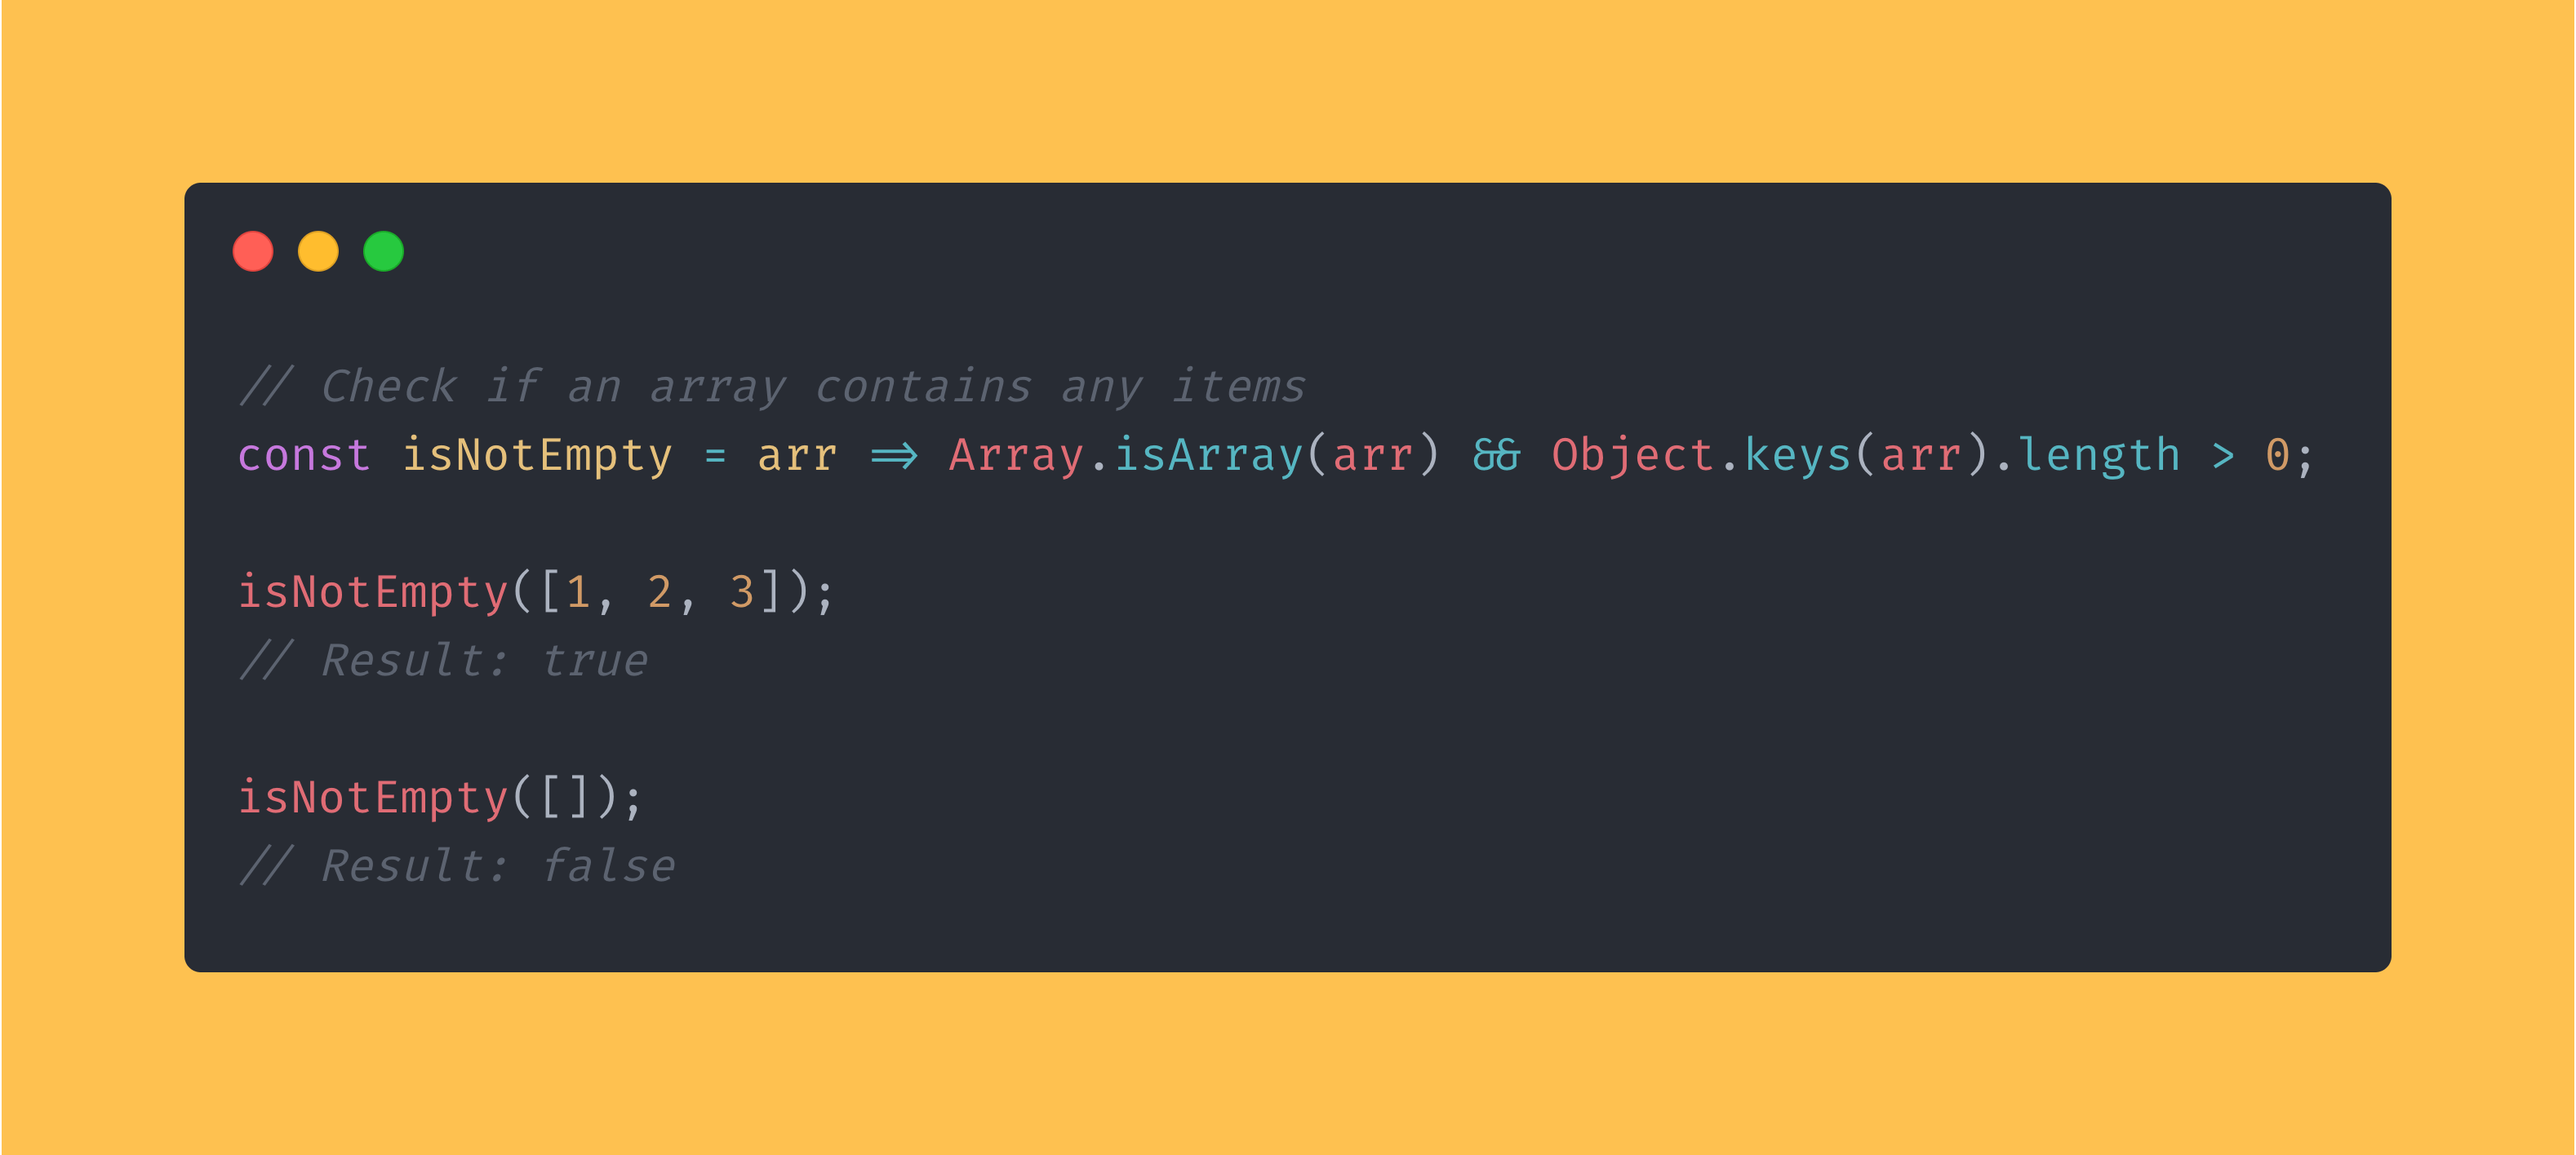
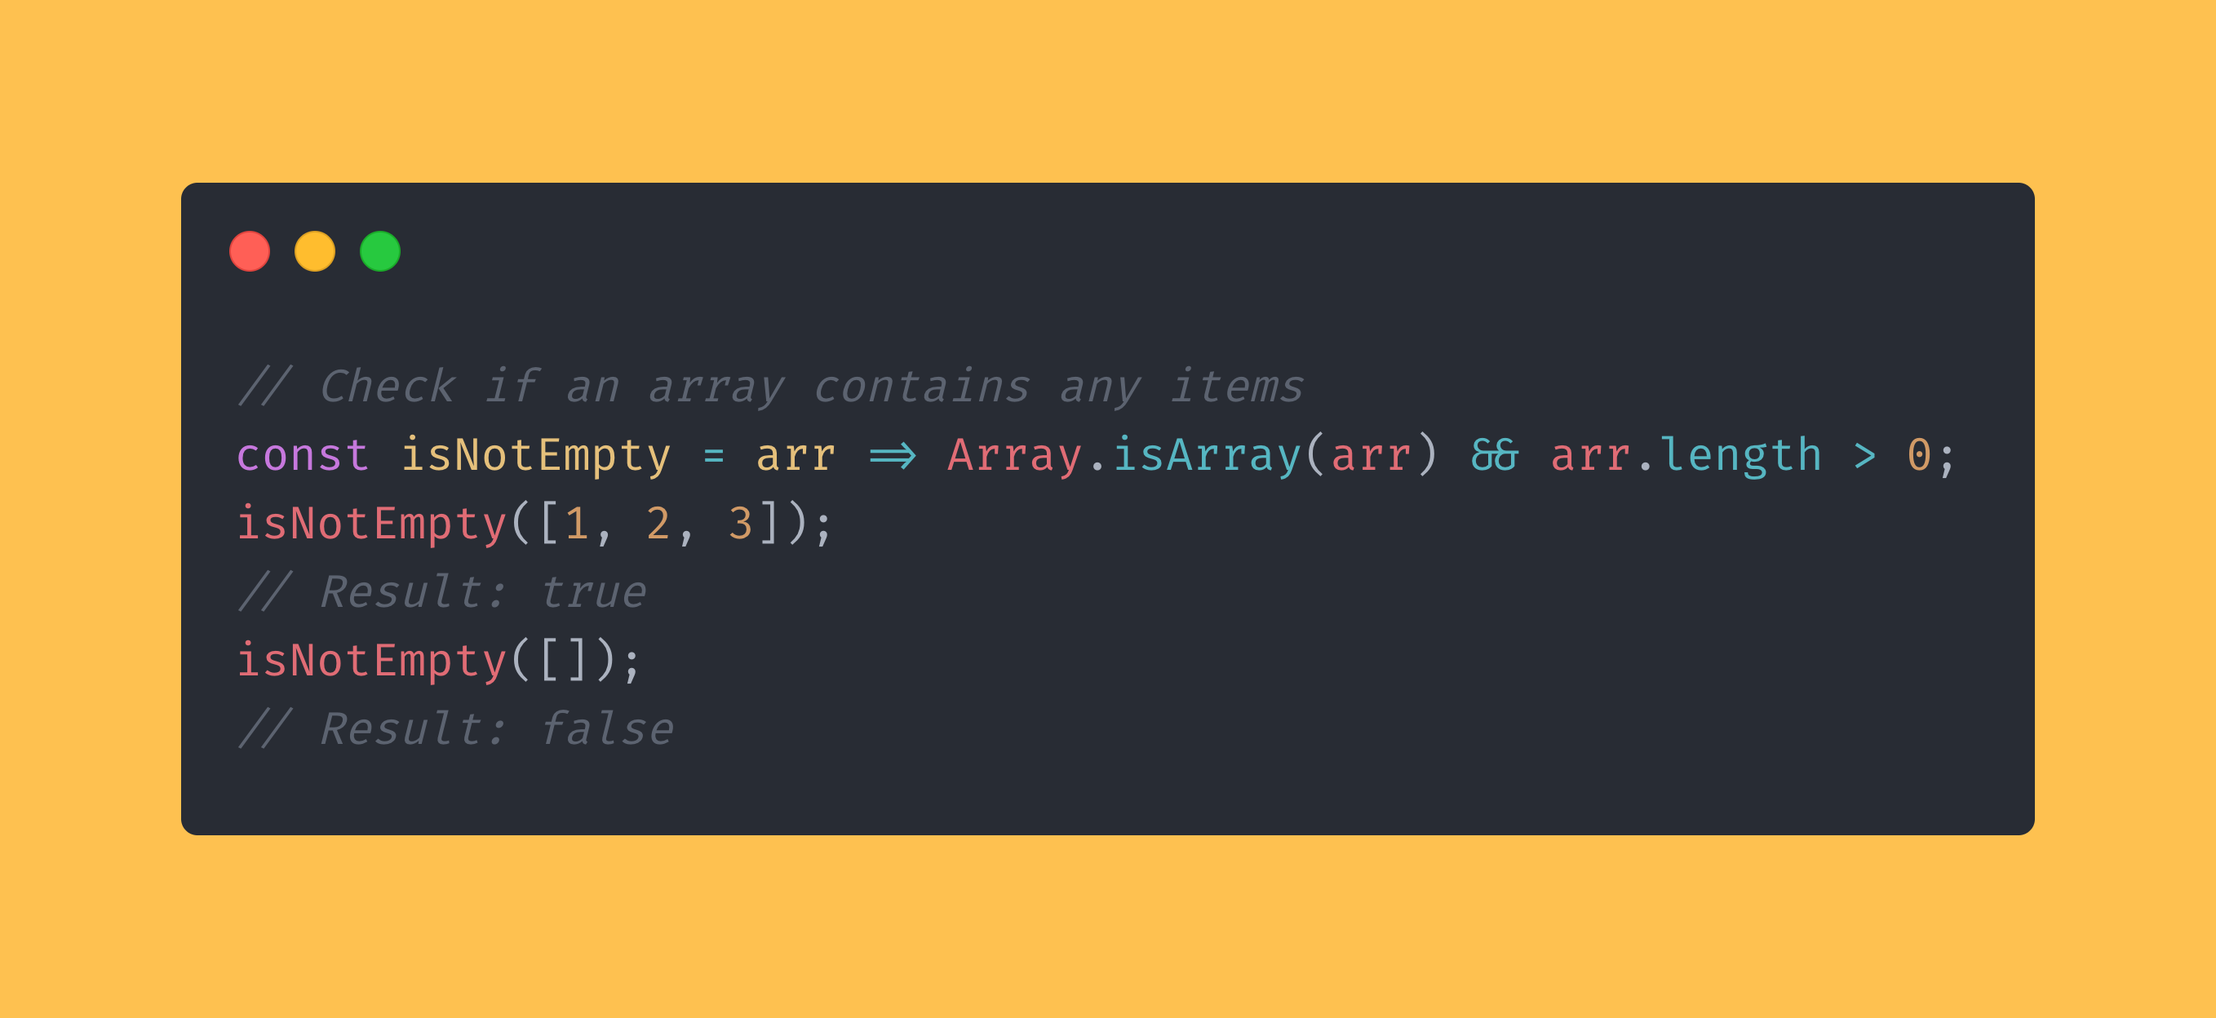
fix point 4 array item of js article

Changed region(s): [[0.0619, 0.1562, 0.9278, 0.8438], [0.4639, 0.3125, 0.4948, 0.3438]]

diff --git a/content/blog/10-javascript-oneliners-you-have-got-to-add-your-arsenal-as-a-developer.md b/content/blog/10-javascript-oneliners-you-have-got-to-add-your-arsenal-as-a-developer.md
@@ -70,7 +70,7 @@ Using the “isArray” method and checking if the length of the array is higher
 
 ```javascript
 // Check if an array contains any items
-const isNotEmpty = arr => Array.isArray(arr) && Object.keys(arr).length > 0;
+const isNotEmpty = arr => Array.isArray(arr) && arr.length > 0;
 
 isNotEmpty([1, 2, 3]);
 // Result: true
